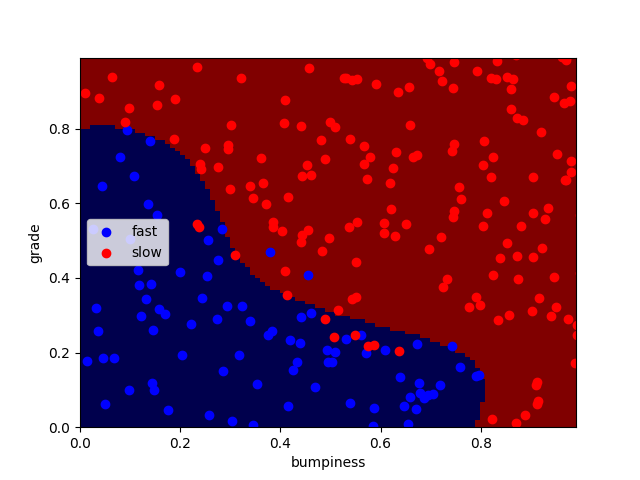
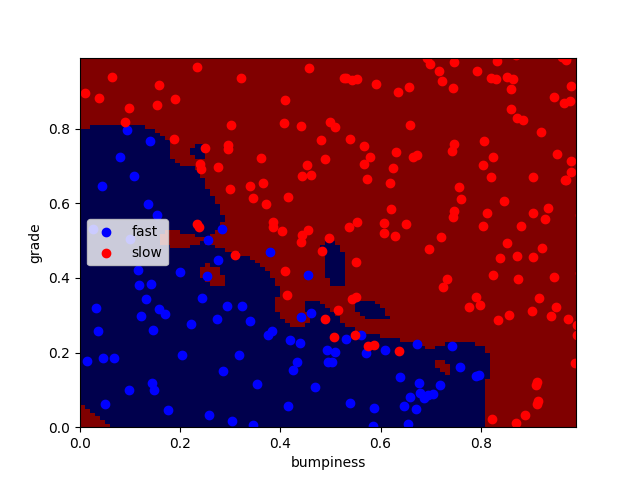
Added Gamma

diff --git a/check_svm_C/your_algorithm.py b/check_svm_C/your_algorithm.py
@@ -31,7 +31,7 @@ plt.show()
 
 ### your code here!  name your classifier object clf if you want the 
 ### visualization code (prettyPicture) to show you the decision boundary
-clf = SVC(kernel='rbf', C=100000)
+clf = SVC(kernel='rbf', C=100000, gamma=50)
 clf.fit(features_train, labels_train)
 
 try:
